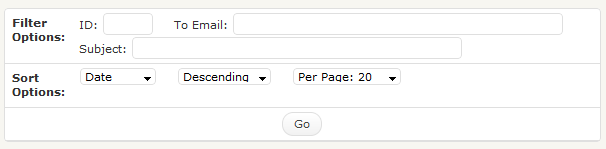
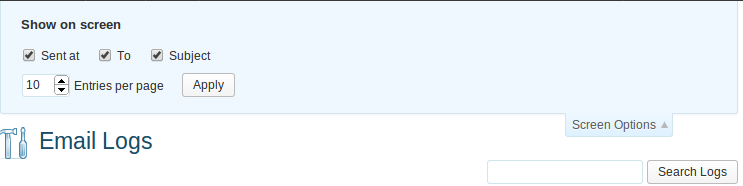
Update screenshots to show the new screens
Fix #6

diff --git a/email-log.php b/email-log.php
@@ -47,6 +47,7 @@ Domain Path: languages/
 2013-09-09 - v1.5.1 - (Dev time: 0.5 hours) 
                   - Correct the upgrade file include path. Issue #7
                   - Fix undfined notice error. Issue #8
+                  - Update screenshots. Issue #6
 */
 /*  Copyright 2009  Sudar Muthu  (email : sudar@sudarmuthu.com)
 

diff --git a/readme.md b/readme.md
@@ -89,11 +89,9 @@ Extract the zip file and drop the contents in the wp-content/plugins/ directory 
 
 ## Screenshots ##
 
-1. The following screenshot shows how the logged emails will be displayed
+1. The above screenshot shows how the logged emails will be displayed by the Plugin
 
-2. This screenshot shows how the email logs could be filtered or sorted.
-
-3. This one shows how the email logs could be deleted
+2. This screenshot shows how you can configure the email display screen. You can choose the fields and the number of emails per page.
 
 ## Changelog ##
 
